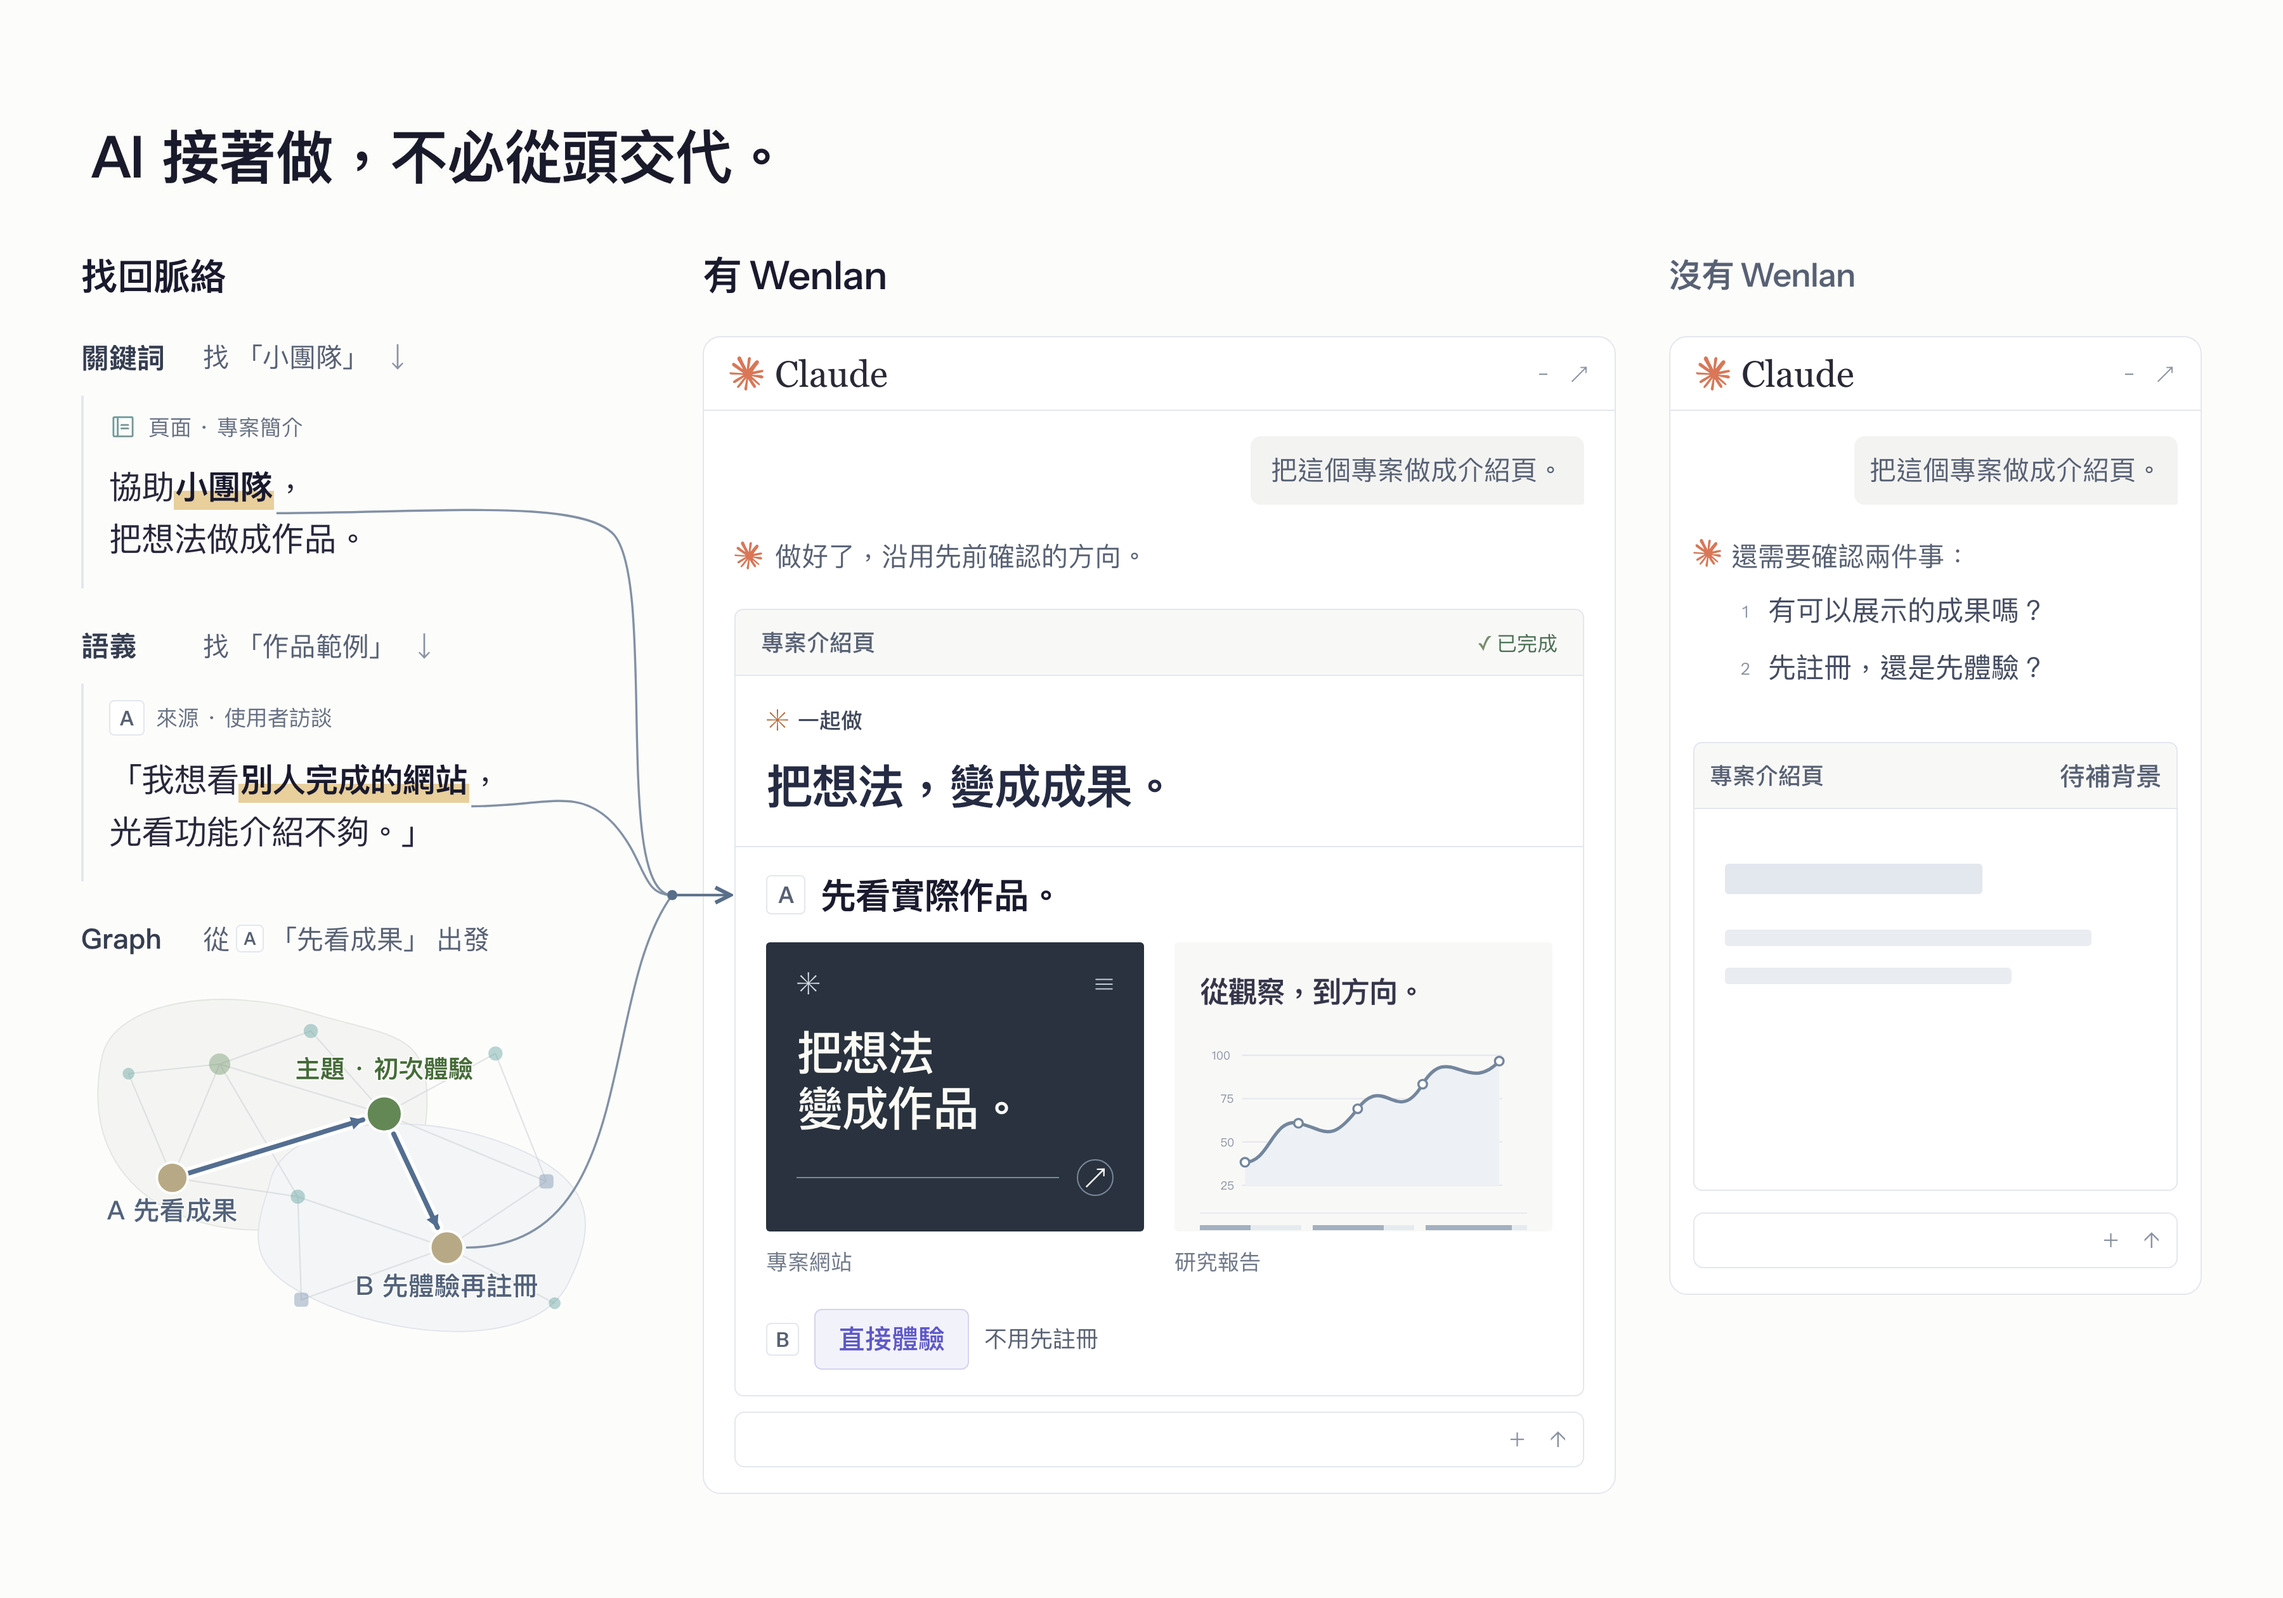
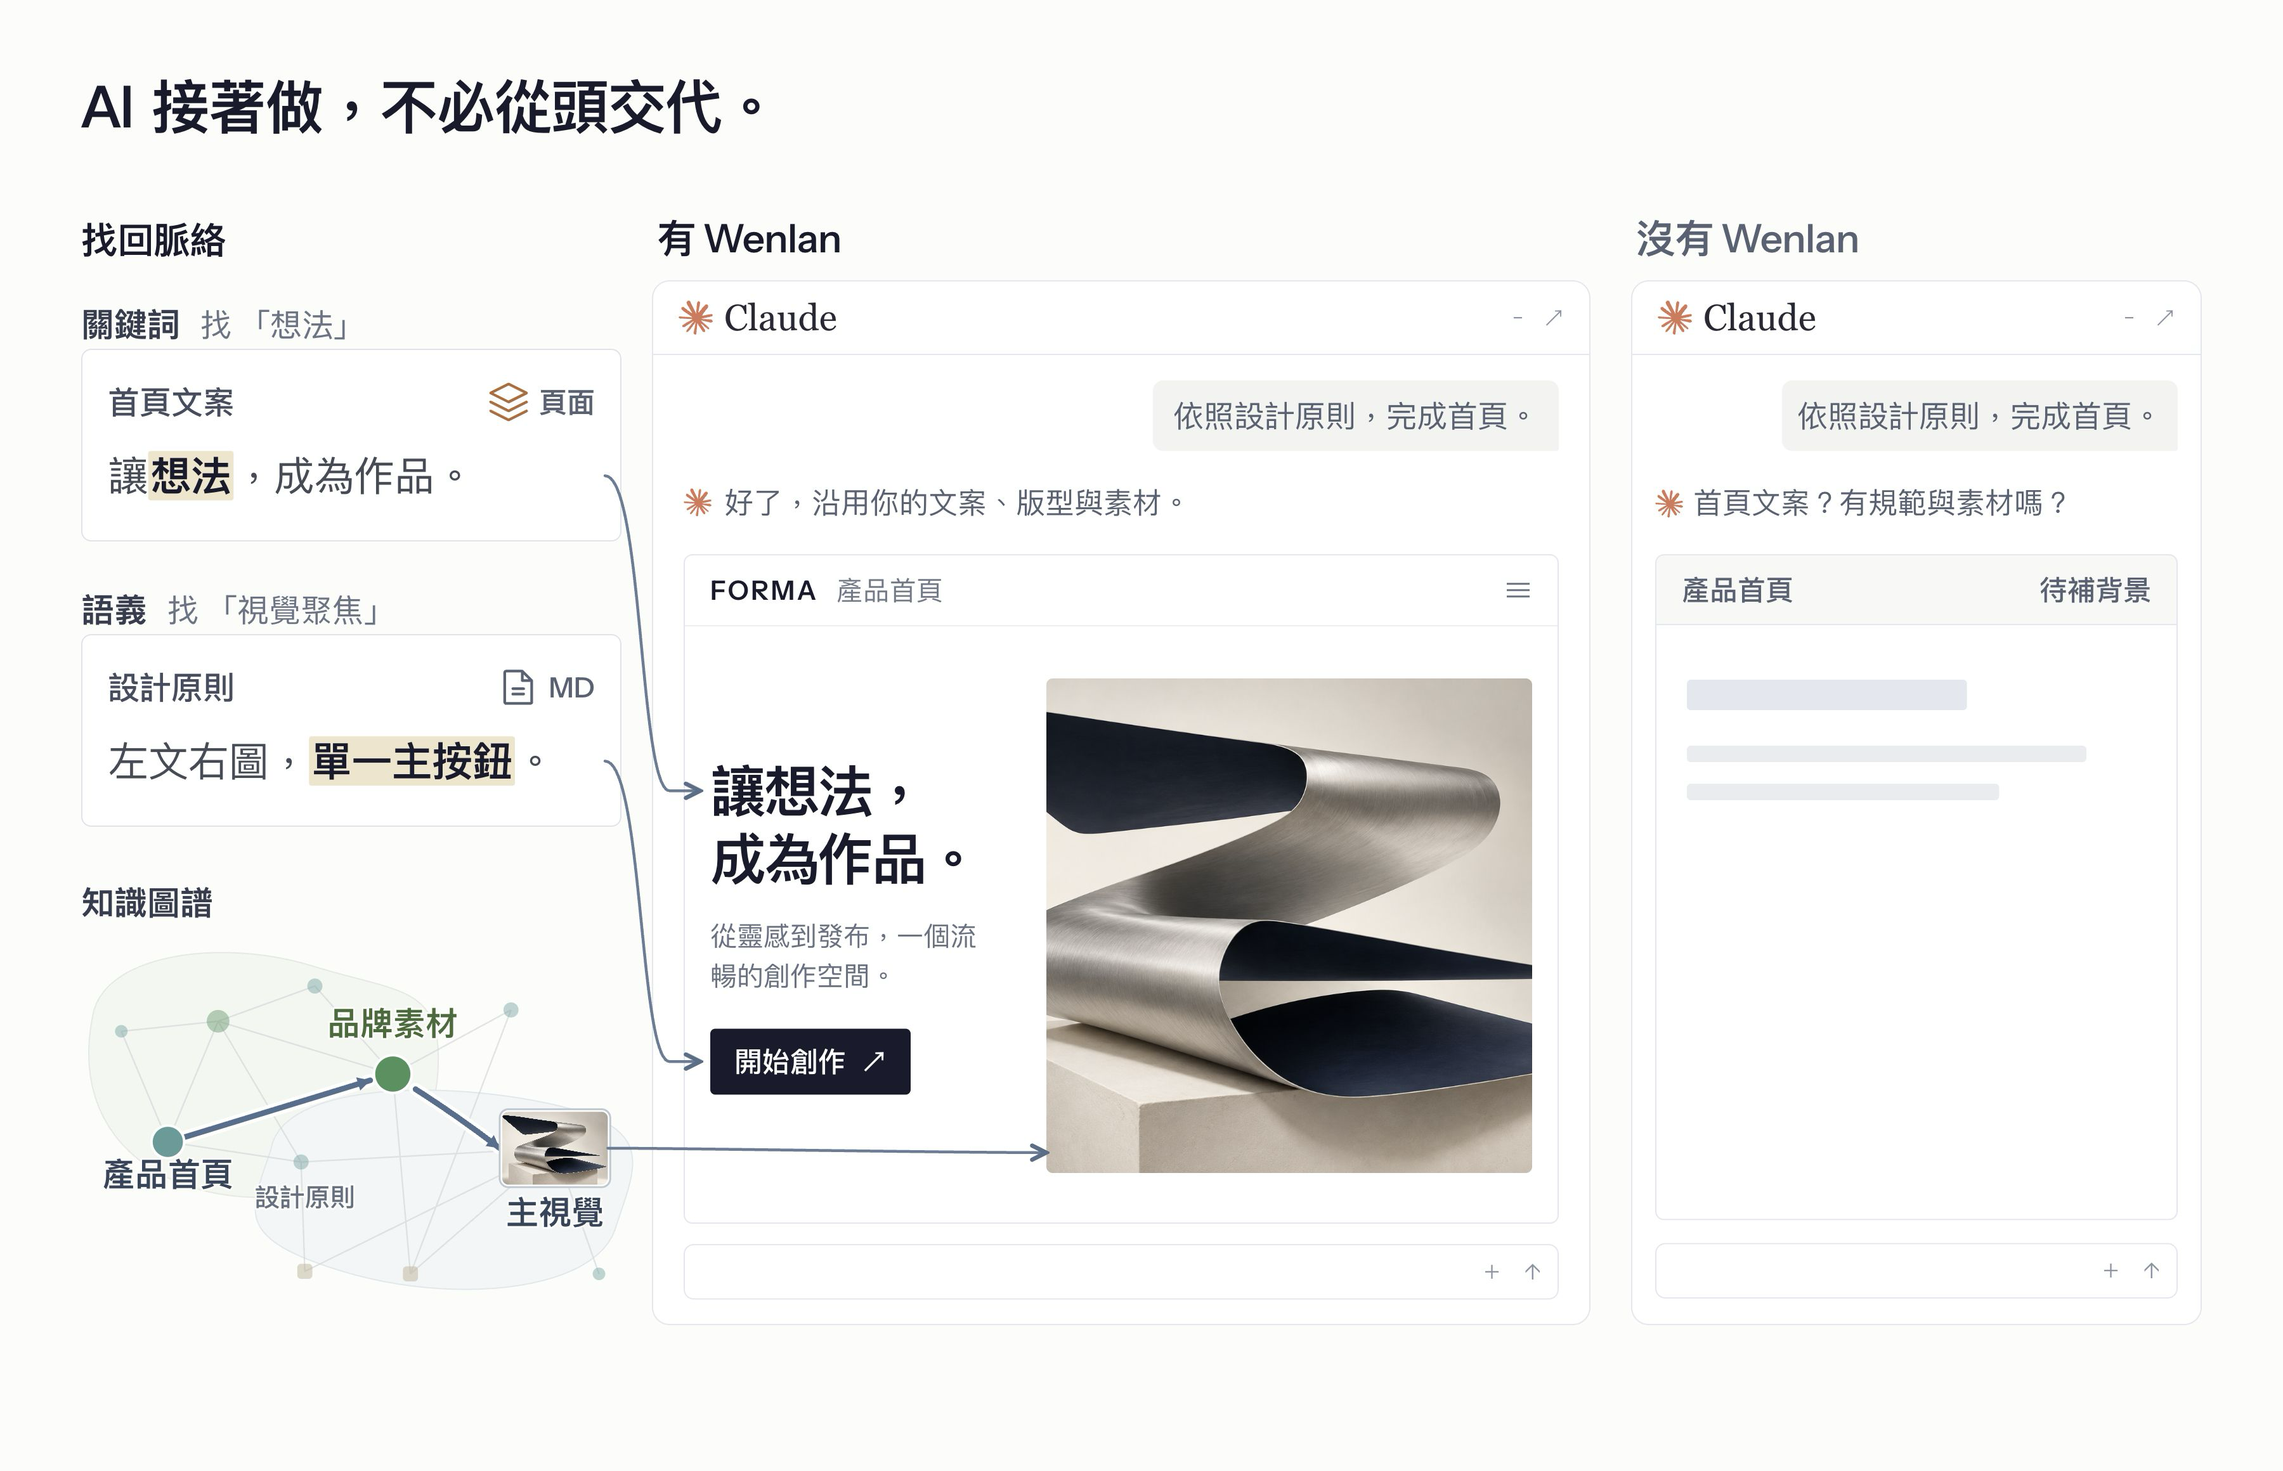
docs: localize approved AI-work illustration in four languages

diff --git a/docs/assets/README.md b/docs/assets/README.md
@@ -19,20 +19,20 @@ See [screenshots and provenance](screenshots/README.md). Product captures use fi
 
 ## Approved README compositions
 
-All four READMEs use the same approved Traditional Chinese figures, with localized alt text and captions. Native demo UI remains in its captured language.
+The AI-work illustration is fully localized for English, Traditional Chinese, Simplified Chinese, and Spanish, including the Claude conversations, retrieval cards, graph labels, and finished homepage. The other three approved figures remain unchanged in Traditional Chinese, with localized alt text and captions. Native demo UI remains in its captured language.
 
-The final consistency pass aligns the three explanatory titles (46px, semibold, shared left edge), uses Page teal for the editorial Page icon, and moves provenance footnotes into readable README captions. It preserves approved body composition and content. The video cover uses a shortened demo article captured in the App, an enlarged native memory preview, and a larger native directory crop. Graph labels and spacing are balanced for README width; provenance stays in the caption beneath the image.
+The final consistency pass aligns the three explanatory titles (46px, semibold, shared left edge), preserves native type icons and colors, and moves provenance footnotes into readable README captions. It preserves approved body composition and content. The video cover uses a shortened demo article captured in the App, an enlarged native memory preview, and a larger native directory crop. Graph labels and spacing are balanced for README width; provenance stays in the caption beneath the image.
 
 | Asset | Export | Provenance |
 | --- | --- | --- |
 | `wenlan-personal-knowledge-zh-Hant.png` | 6000 × 3600 | Actual App directory/header captures and a high-resolution render of the actual editor and memory-preview DOM/styles, combined with an editorial graph layout. All 33 graph nodes and 80 typed relationships retain their verified demo identities. Not a native three-column screen; App behavior is unchanged. |
 | `wenlan-personal-graph-zh-Hant.png` | 3600 × 2488 | Actual graph capture; the approved graph body is pixel-identical. Region names and boundaries are editorial annotations, not verified source-node identities or detected communities. |
-| `wenlan-knowledge-to-work-zh-Hant.png` | 3600 × 2520 | Fictional project, Claude conversations, and resulting websites. Concept illustration, not a measured comparison. Additional Wenlan context complements Claude's native capabilities. |
+| `wenlan-knowledge-to-work.png`, `-zh-Hant.png`, `-zh-Hans.png`, `-es-ES.png` | 3600 × 2320 each | Fictional Claude conversations and FORMA homepage, using the film’s unchanged hero-image asset. Keyword, semantic, and graph paths point to the matching headline, primary action, and image. Concept illustration, not a measured comparison; Wenlan context complements Claude’s native capabilities. |
 | `wenlan-updates-history-zh-Hant.png` | 3600 × 2080 | Actual memory, source, page, and revision captures with demo data; connecting lines and editorial labels are illustrative. Shows automatic updates to untouched AI-organized pages and per-page review for user-created or edited pages. |
 
[1 lines of base64/hex data omitted]
 
-Composition sources: `cover-polish-title` (6000px `cover-polish-hd` master; approved `cover-polish-v2` layout), `real-graph-polish-v7`, `ai-work-polish-v11`, and `lifecycle-polish-v26`, retained in the `cover-polish-title`, `cover-polish-hd`, and `readme-final-consistency` production packages. The final title pass reduces only the article heading from 28.16px to 26px; every pixel outside that heading area is identical to the 6000px master. The cover package includes read-only snapshots of the actual editor and hover-preview DOM/styles, original pseudo-element icon CSS, the approved composition, export instructions, and SHA-256 verification. Text and graph labels are rendered at high resolution rather than enlarged from the former small article crop. Heading font fallback is normalized to match the approved capture. Directory/header raster inputs remain unchanged; their detail is limited by the original captures. Browser capture uses JPEG transport; the published PNG adds no further lossy encoding. No generative enhancement or invented UI content is used.
+Composition sources: `cover-polish-title` (6000px `cover-polish-hd` master; approved `cover-polish-v2` layout), `real-graph-polish-v7`, `ai-work-film-case-v7` / `ai-work-film-case-v7-localized`, and `lifecycle-polish-v26`, retained in their corresponding production packages, including `cover-polish-title`, `cover-polish-hd`, `readme-final-consistency`, and `ai-work-film-case-v7-localized`. The final title pass reduces only the article heading from 28.16px to 26px; every pixel outside that heading area is identical to the 6000px master. The cover package includes read-only snapshots of the actual editor and hover-preview DOM/styles, original pseudo-element icon CSS, the approved composition, export instructions, and SHA-256 verification. Text and graph labels are rendered at high resolution rather than enlarged from the former small article crop. Heading font fallback is normalized to match the approved capture. Directory/header raster inputs remain unchanged; their detail is limited by the original captures. Browser capture uses JPEG transport; the published PNG adds no further lossy encoding. No generative enhancement or invented UI content is used in the product cover. The AI-work comparison remains an authored concept as noted above.
 
 The older `wenlan-lifecycle*` and `wenlan-knowledge-network*` illustrations and their generators remain available for reference; the current READMEs do not use their old mobile variants.
 
@@ -40,5 +40,8 @@ The older `wenlan-lifecycle*` and `wenlan-knowledge-network*` illustrations and 
 
[8 lines of base64/hex data omitted]

diff --git a/README.es-ES.md b/README.es-ES.md
@@ -1,4 +1,4 @@
-<!-- README_SYNC: source=README.md sha256=cd867f9a47a3c5281ecb33e2c1960cf19c2446775b0393449dbc196a24005fe8 -->
+<!-- README_SYNC: source=README.md sha256=5ac11f9f8c681323f5ccefe42dc3b62f5c2f3574454eace094b35b5a0f602a0e -->
 
 <p align="center">
   <picture>
@@ -121,7 +121,7 @@ Aprovecha hallazgos y decisiones anteriores en tu próxima tarea de escritura, i
 - **Búsqueda por Espacio:** Selecciona un Espacio para limitar el conocimiento devuelto al proyecto o colección personal pertinente.
 
 <p align="center">
-  <img src="./docs/assets/wenlan-knowledge-to-work-zh-Hant.png" alt="La IA continúa con lo que ya sabes: búsqueda por palabras clave, significado y grafo" width="100%">
+  <img src="./docs/assets/wenlan-knowledge-to-work-es-ES.png" alt="La IA continúa con lo que ya sabes: búsqueda por palabras clave, significado y grafo" width="100%">
 </p>
 <p>Ejemplo ficticio, no una prueba del producto; Wenlan aporta contexto junto con la memoria nativa de Claude.</p>
 

diff --git a/README.zh-Hans.md b/README.zh-Hans.md
@@ -1,4 +1,4 @@
-<!-- README_SYNC: source=README.md sha256=cd867f9a47a3c5281ecb33e2c1960cf19c2446775b0393449dbc196a24005fe8 -->
+<!-- README_SYNC: source=README.md sha256=5ac11f9f8c681323f5ccefe42dc3b62f5c2f3574454eace094b35b5a0f602a0e -->
 
 <p align="center">
   <picture>
@@ -121,7 +121,7 @@
 - **Spaces 范围检索**：选定 Space，将返回的知识限制在相关项目或个人资料集合内。
 
 <p align="center">
-  <img src="./docs/assets/wenlan-knowledge-to-work-zh-Hant.png" alt="AI 接着做，不必从头交代：关键词、语义与图谱检索" width="100%">
+  <img src="./docs/assets/wenlan-knowledge-to-work-zh-Hans.png" alt="AI 接着做，不必从头交代：关键词、语义与图谱检索" width="100%">
 </p>
 <p>虚构案例，非产品测试；文澜补充上下文，与 Claude 原生记忆配合使用。</p>
 

diff --git a/README.md b/README.md
@@ -117,7 +117,7 @@ Bring earlier findings and decisions into your next writing, research, or develo
 - **Space-scoped retrieval:** Select a Space to limit returned knowledge to the relevant project or personal collection.
 
 <p align="center">
-  <img src="./docs/assets/wenlan-knowledge-to-work-zh-Hant.png" alt="Let AI continue from what you already know: keyword, semantic and Graph retrieval" width="100%">
+  <img src="./docs/assets/wenlan-knowledge-to-work.png" alt="Let AI continue from what you already know: keyword, semantic and Graph retrieval" width="100%">
 </p>
 <p>Fictional example, not a product test; Wenlan adds context alongside Claude’s native memory.</p>
 

diff --git a/README.zh-Hant.md b/README.zh-Hant.md
@@ -1,4 +1,4 @@
-<!-- README_SYNC: source=README.md sha256=cd867f9a47a3c5281ecb33e2c1960cf19c2446775b0393449dbc196a24005fe8 -->
+<!-- README_SYNC: source=README.md sha256=5ac11f9f8c681323f5ccefe42dc3b62f5c2f3574454eace094b35b5a0f602a0e -->
 
 <p align="center">
   <picture>
